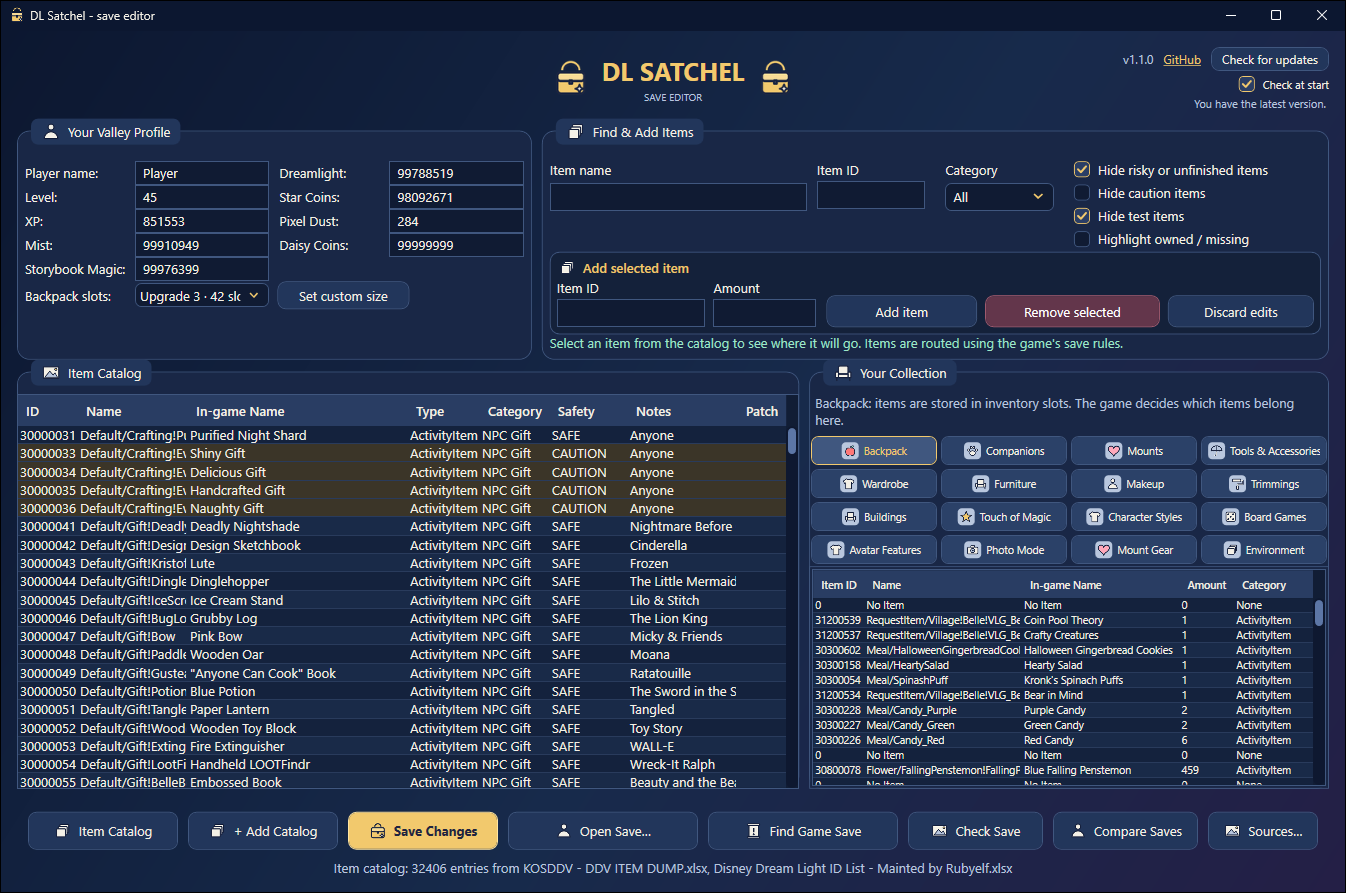
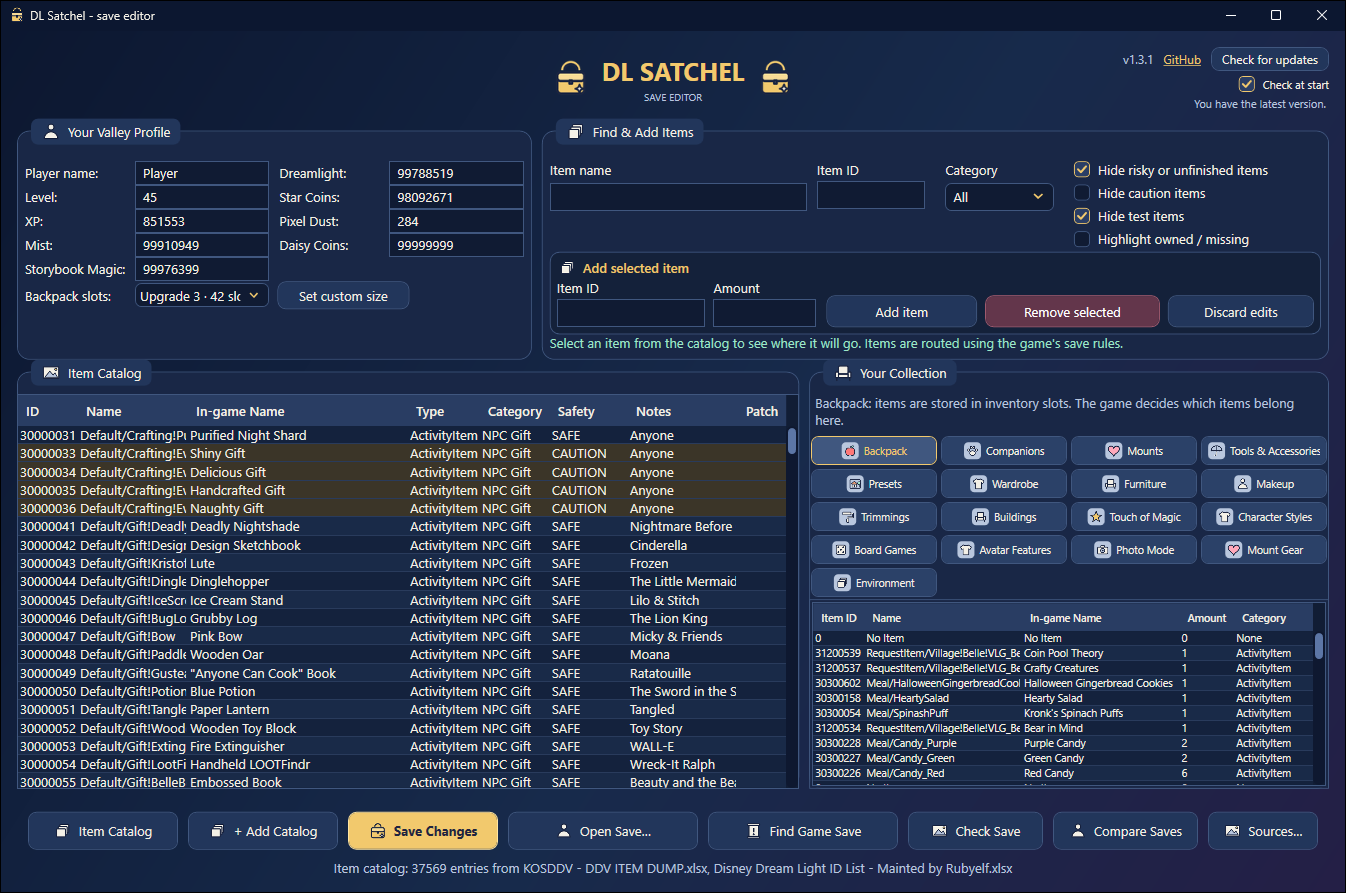
Presets stay presets with the newer KOSDDV dump; new screenshots
Newer KOSDDV dumps list Gameloft presets as ActivityData with a
PremadeDecorationPreset/ name. ActivityData otherwise means "not an
item", and the dump wins over Rubyelf, so with fresh lists the Presets
tab was empty and presets could not be added. A taxonomy rule now keeps
them as decoration presets.

README screenshots are retaken with 1.3.1 and up-to-date lists, with a
picture of adding a list from its link. Files keep their names so
existing links to them still work.

Version 1.3.1.

Changed region(s): [[0.5929, 0.514, 0.9985, 0.8768], [0.8113, 0.514, 0.8737, 0.5442], [0.312, 0.9675, 0.3432, 0.9978]]

diff --git a/tests/DLSatchel.Tests/ItemPlacementTests.cs b/tests/DLSatchel.Tests/ItemPlacementTests.cs
@@ -237,6 +237,31 @@ namespace DDV.SaveEditor.Tests
         }
 
         [Fact]
+        public async Task GameloftPresets_FromTheNewerKosddvDump_StayPresets()
+        {
+            // Newer KOSDDV dumps list presets as ActivityData, which otherwise means "not an item".
+            // The dump wins over Rubyelf, so its TYPE must not hide the presets.
+            string directory = XlsxBuilder.NewTempDirectory();
+            string dump = XlsxBuilder.WriteCsv(Path.Combine(directory, "dump.csv"),
+                "ID,NAME,LOCALIZED_DISPLAY_NAME,TYPE,SUBTYPE,ONLINE_TAG\n" +
+                "2050500016,PremadeDecorationPreset/PremadeKnightCastleBundle,Knight Castle Preset,ActivityData,True,Premium\n" +
+                "2050100001,CookingRecipe/Salad,Salad,ActivityData,,\n");
+            string rubyelf = XlsxBuilder.WriteCsv(Path.Combine(directory, "rubyelf.csv"),
+                "Hex,Item ID,Name,Category,Notes,Catalogue Category\n" +
+                "7A3F0C08,2050500016,,Preset,Knight Castle Preset,Premium\n");
+            var (catalog, _) = await CatalogHarness.LoadAsync((dump, 10), (rubyelf, 30));
+            ItemDatabase.SetCatalog(catalog);
+
+            var knight = catalog.Get(2050500016)!;
+            Assert.Equal(("Knight Castle Preset", ItemKind.DecorationPreset, PlacementHint.DecorationPreset),
+                         (knight.DisplayName, knight.Kind, knight.Placement));
+            Assert.Equal(ItemKind.Recipe, catalog.Get(2050100001)!.Kind);   // other ActivityData unchanged
+
+            var save = JObject.Parse("""{ "Player": { "PremadeDecorationPresets": { "DecorationPresets": [] } } }""");
+            Assert.Equal(PlacementKind.DecorationPreset, ItemPlacement.Resolve(save, "2050500016").Kind);
+        }
+
+        [Fact]
         public async Task HeldAccessories_GoToToolsUnequipped_EvenWithoutAType()
         {
             // Parasols and umbrellas are not clothing: the game keeps them in Player.Tools.

diff --git a/README.pl.md b/README.pl.md
@@ -6,7 +6,7 @@ Dodawaj przedmioty, ubrania, meble, towarzyszy i monety do swojego zapisu na PC.
 <a href="README.md">English version</a>
 </p>
 
-![Edytor z otwartym zapisem](docs/img/screen-overview.png)
+![Edytor z otwartym zapisem](docs/img/screen-overview.png?v=1.3.1)
 
 Cała Twoja gra siedzi w jednym pliku na komputerze. DL Satchel otwiera ten plik i pokazuje go jako
 zwykłe listy. Wybierasz, co chcesz, klikasz **Save Changes**, uruchamiasz grę - i to już tam jest.
@@ -35,16 +35,19 @@ zapisem robi kopię zapasową, więc zawsze możesz wrócić.
 3. Kliknij **Sources…**, a potem **+ Add from link…**. Kliknij **Rubyelf ID list** i **Download and add**.
    To samo zrób z **KOSDDV item dump**. Robisz to tylko raz - edytor je zapamiętuje.
    (Masz już pliki Excel? Kliknij **Item Catalog** i **+ Add Catalog** i wybierz je.)
+
+   ![Dodawanie listy z linku](docs/img/screen-add-link.png?v=1.3.1)
+
 4. Kliknij **Find Game Save** i wybierz swój zapis.
 5. Wpisz nazwę w **Item name**, kliknij przedmiot na liście, ustaw **Amount** i kliknij **Add item**
    (albo po prostu kliknij przedmiot dwa razy). Edytor sam włoży go we właściwe miejsce.
 
-   ![Wyszukiwanie i dodawanie przedmiotu](docs/img/screen-add-item.png)
+   ![Wyszukiwanie i dodawanie przedmiotu](docs/img/screen-add-item.png?v=1.3.1)
 
 6. Żeby coś usunąć, otwórz kolekcję po prawej (np. **Furniture**), zaznacz przedmiot i kliknij
    **Remove selected**. Monety i poziom są na górze po lewej.
 
-   ![Twoje meble](docs/img/screen-collection.png)
+   ![Twoje meble](docs/img/screen-collection.png?v=1.3.1)
 
 7. Kliknij **Save Changes**. Edytor pokaże, co się zmieni (np. „Backpack”), i poprosi
    o potwierdzenie. Potem uruchom grę.
@@ -55,7 +58,7 @@ Rzeczy, które postać trzyma w ręce - parasolki, parasole i podobne - to **nie
 razem z narzędziami. Otwórz zakładkę **Tools & Accessories**, znajdź przedmiot i kliknij
 **Add item**. Zostanie dodany jako nieużywany, więc wybierzesz go w grze.
 
-![Narzędzia i akcesoria](docs/img/screen-tools.png)
+![Narzędzia i akcesoria](docs/img/screen-tools.png?v=1.3.1)
 
 ## Presety dekoracji
 
@@ -69,7 +72,7 @@ brakuje, i może je od razu dodać do Twojego magazynu mebli.
 Większość presetów pochodzi ze sklepu. Te, które listy opisują jako „unreleased”, są na początku
 ukryte: odznacz **Hide risky or unfinished items**, żeby je zobaczyć.
 
-![Presety dekoracji](docs/img/screen-presets-furniture.png)
+![Presety dekoracji](docs/img/screen-presets-furniture.png?v=1.3.1)
 
 ## Po aktualizacji gry
 
@@ -80,7 +83,7 @@ zmieni adres, wklej nowy link w kolumnie **Link**.
 
 **Check Save** powie Ci, czy w zapisie są przedmioty, których listy jeszcze nie znają.
 
-![Listy przedmiotów z linkami](docs/img/screen-sources.png)
+![Listy przedmiotów z linkami](docs/img/screen-sources.png?v=1.3.1)
 
 ## Co znaczą oznaczenia
 

diff --git a/README.md b/README.md
@@ -6,7 +6,7 @@ Add items, clothes, furniture, companions and coins to your save on PC.<br>
 <a href="README.pl.md">Polska wersja</a>
 </p>
 
-![The editor with a save open](docs/img/screen-overview.png)
+![The editor with a save open](docs/img/screen-overview.png?v=1.3.1)
 
 Your whole game is kept in one file on your PC. DL Satchel opens that file and shows it as simple
 lists. You pick what you want, click **Save Changes**, start the game - and it is there.
@@ -35,16 +35,19 @@ handles that by itself. Before every save it makes a backup, so you can always g
 3. Click **Sources…**, then **+ Add from link…**. Click **Rubyelf ID list** and **Download and add**.
    Do the same with **KOSDDV item dump**. You only do this once - the editor remembers them.
    (Already have the Excel files? Click **Item Catalog** and **+ Add Catalog** and pick them instead.)
+
+   ![Adding a list from its link](docs/img/screen-add-link.png?v=1.3.1)
+
 4. Click **Find Game Save** and choose your save.
 5. Type a name in **Item name**, click the item in the list, set **Amount** and click **Add item**
    (or just double click the item). The editor puts it in the right place by itself.
 
-   ![Finding and adding an item](docs/img/screen-add-item.png)
+   ![Finding and adding an item](docs/img/screen-add-item.png?v=1.3.1)
 
 6. To remove something, open a collection on the right (for example **Furniture**), select it and
    click **Remove selected**. Coins and level are at the top left.
 
-   ![Your furniture](docs/img/screen-collection.png)
+   ![Your furniture](docs/img/screen-collection.png?v=1.3.1)
 
 7. Click **Save Changes**. The editor shows what will change (for example "Backpack") and asks you
    to confirm. Then start the game.
@@ -55,7 +58,7 @@ Things your character holds - umbrellas, parasols and the like - are **not cloth
 them together with your tools. Open the **Tools & Accessories** tab, find the item and click
 **Add item**. It is added unequipped, so you pick it in the game.
 
-![Tools and accessories](docs/img/screen-tools.png)
+![Tools and accessories](docs/img/screen-tools.png?v=1.3.1)
 
 ## Decoration presets
 
@@ -69,7 +72,7 @@ pieces you are missing and can add them to your furniture storage in one go.
 Most presets come from the shop. The ones the lists call "unreleased" are hidden at first: untick
 **Hide risky or unfinished items** to see them.
 
-![Decoration presets](docs/img/screen-presets-furniture.png)
+![Decoration presets](docs/img/screen-presets-furniture.png?v=1.3.1)
 
 ## When the game updates
 
@@ -80,7 +83,7 @@ paste the new link in the **Link** column.
 
 **Check Save** tells you if your save has items the lists don't know yet.
 
-![Item lists with their links](docs/img/screen-sources.png)
+![Item lists with their links](docs/img/screen-sources.png?v=1.3.1)
 
 ## What the labels mean
 
